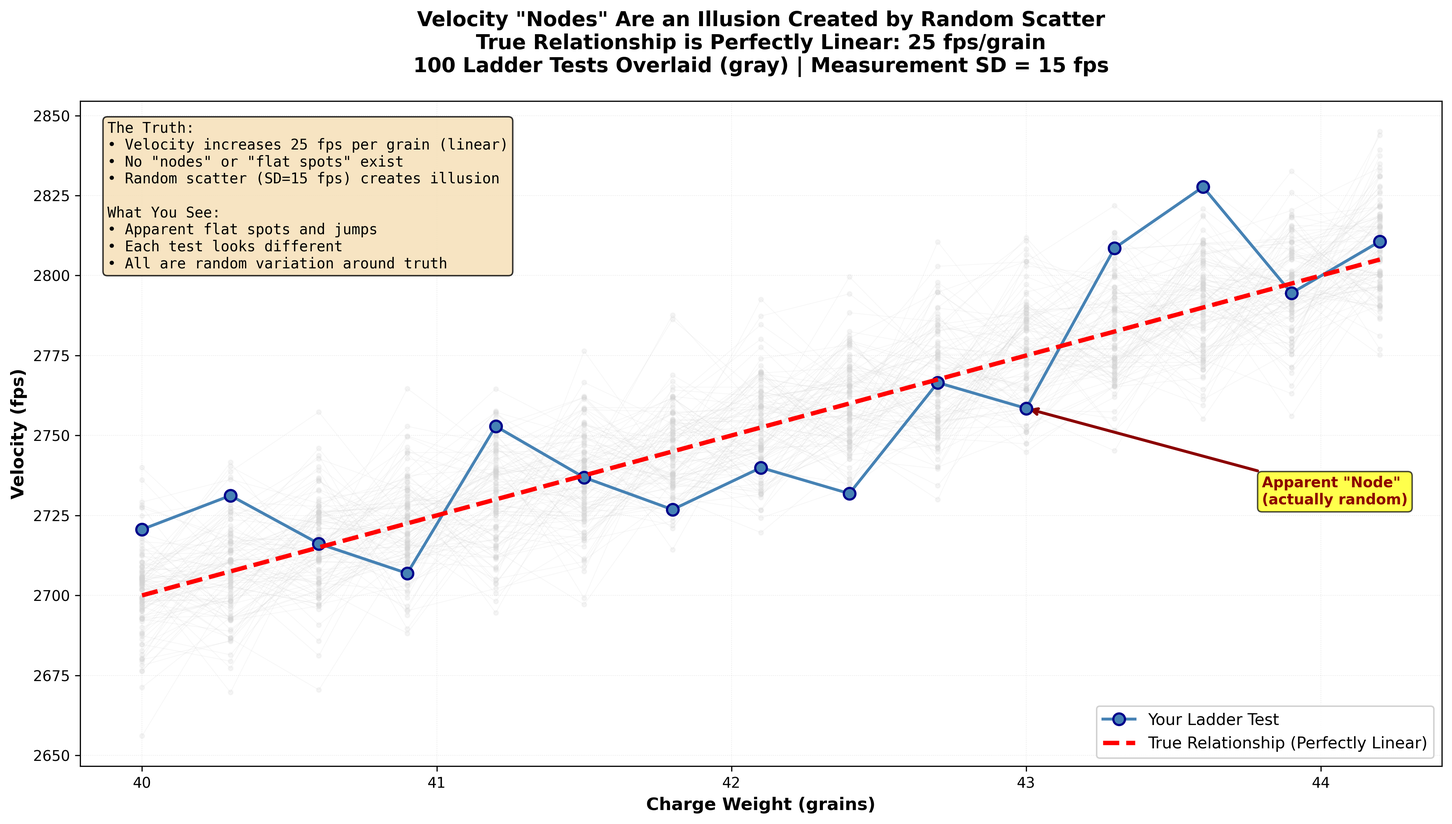
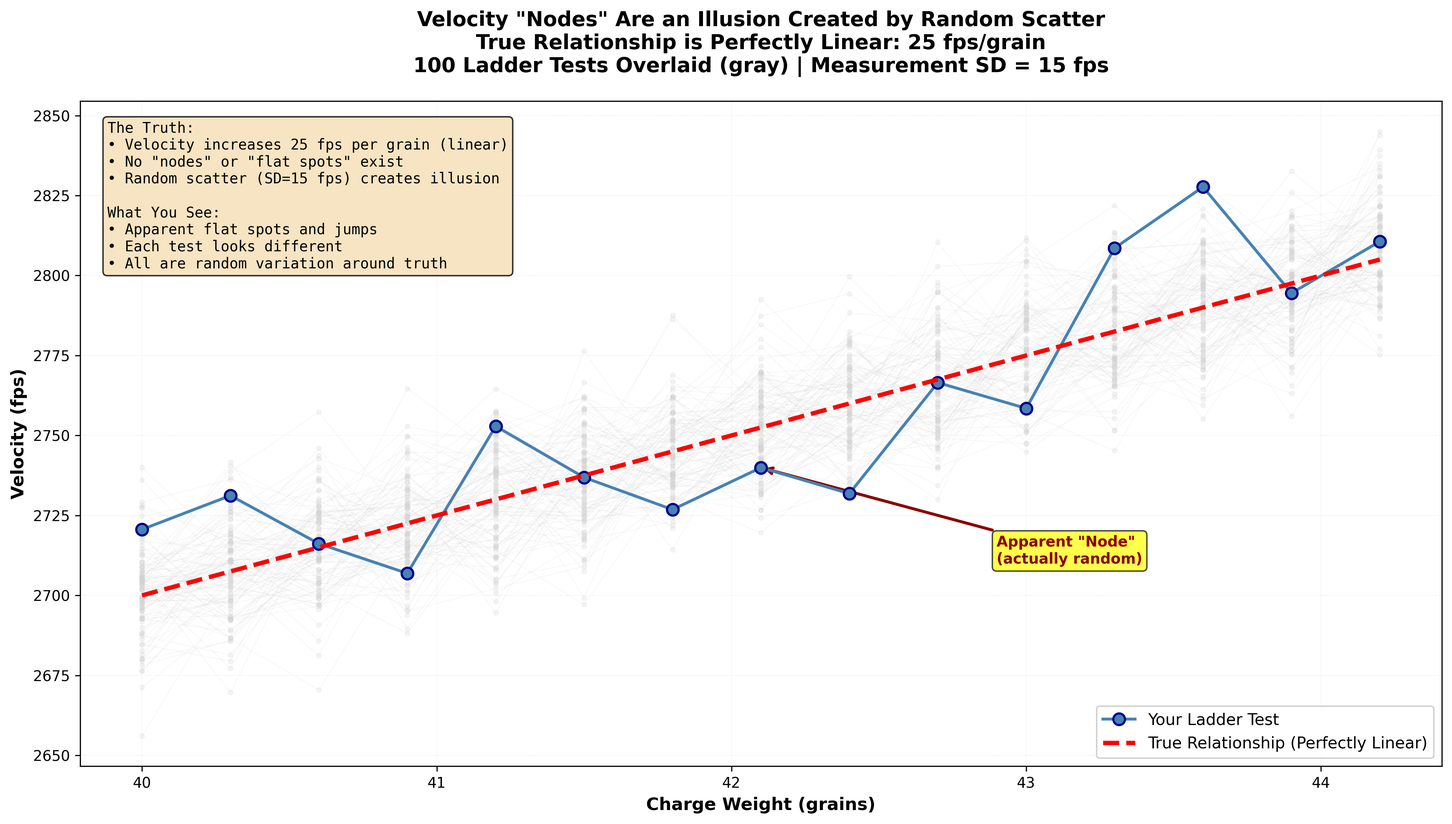
Curriculum modifications

diff --git a/scripts/plot_06_18_es_vs_mr_comparison.py b/scripts/plot_06_18_es_vs_mr_comparison.py
@@ -104,15 +104,15 @@ es_at_100 = es_values[-1]
 
 ax.annotate(f'ES at 5 shots:\n{es_at_5:.2f} MOA',
             xy=(5, es_at_5),
-            xytext=(15, es_at_5 - 0.3),
-            fontsize=9, color='darkred',
+            xytext=(15, es_at_5 + 0.4),
+            fontsize=8.5, color='darkred',
             bbox=dict(boxstyle='round', facecolor='mistyrose', alpha=0.8),
             arrowprops=dict(arrowstyle='->', color='darkred', linewidth=1.5))
 
 ax.annotate(f'ES at 100 shots:\n{es_at_100:.2f} MOA\n(still growing!)',
             xy=(100, es_at_100),
-            xytext=(75, es_at_100 + 0.5),
-            fontsize=9, color='darkred',
+            xytext=(70, es_at_100 + 0.3),
+            fontsize=8.5, color='darkred',
             bbox=dict(boxstyle='round', facecolor='mistyrose', alpha=0.8),
             arrowprops=dict(arrowstyle='->', color='darkred', linewidth=1.5))
 
@@ -122,8 +122,8 @@ mr_at_100 = mr_values[-1]
 
 ax.annotate(f'MR stabilizes\n{mr_at_100:.2f} MOA',
             xy=(50, mr_at_100),
-            xytext=(30, mr_at_100 - 0.6),
-            fontsize=9, color='darkblue',
+            xytext=(50, mr_at_100 - 0.5),
+            fontsize=8.5, color='darkblue',
             bbox=dict(boxstyle='round', facecolor='lightblue', alpha=0.8),
             arrowprops=dict(arrowstyle='->', color='darkblue', linewidth=1.5))
 
@@ -139,8 +139,8 @@ explanation_text = (
     f'Use MR, not ES, for reliable precision measurement'
 )
 
-ax.text(0.02, 0.97, explanation_text, transform=ax.transAxes,
-        fontsize=10, verticalalignment='top', horizontalalignment='left',
+ax.text(0.02, 0.70, explanation_text, transform=ax.transAxes,
+        fontsize=9, verticalalignment='top', horizontalalignment='left',
         bbox=dict(boxstyle='round', facecolor='wheat', alpha=0.8),
         family='monospace')
 

diff --git a/scripts/plot_05_16_velocity_node_illusion.py b/scripts/plot_05_16_velocity_node_illusion.py
@@ -69,16 +69,15 @@ ax.set_title('Velocity "Nodes" Are an Illusion Created by Random Scatter\n'
              f'100 Ladder Tests Overlaid (gray) | Measurement SD = {VELOCITY_SD} fps',
              fontsize=14, fontweight='bold', pad=20)
 
-# Add annotation pointing to apparent "flat spot" in your ladder test
-# Find a spot where consecutive velocities are similar (looks like a node)
-velocity_changes = np.diff(your_velocities)
-# Find smallest change (apparent flat spot)
-min_change_idx = np.argmin(np.abs(velocity_changes))
+# Add annotation pointing to the 42.0gr region (commonly identified as a "node")
+# Find the index for 42.0gr charge weight
+target_charge = 42.0
+target_idx = np.argmin(np.abs(charge_weights - target_charge))
 
-# Annotate apparent node
+# Annotate apparent node at 42.0gr
 ax.annotate('Apparent "Node"\n(actually random)',
-            xy=(charge_weights[min_change_idx + 1], your_velocities[min_change_idx + 1]),
-            xytext=(charge_weights[min_change_idx + 1] + 0.8, your_velocities[min_change_idx + 1] - 30),
+            xy=(charge_weights[target_idx], your_velocities[target_idx]),
+            xytext=(charge_weights[target_idx] + 0.8, your_velocities[target_idx] - 30),
             fontsize=10, fontweight='bold', color='darkred',
             bbox=dict(boxstyle='round', facecolor='yellow', alpha=0.7),
             arrowprops=dict(arrowstyle='->', color='darkred', linewidth=2))

diff --git a/scripts/plot_01_02_mean_radius_vs_extreme_spread.py b/scripts/plot_01_02_mean_radius_vs_extreme_spread.py
@@ -115,14 +115,14 @@ ax.legend(loc='upper left', fontsize=9, framealpha=0.9)
 
 # Add annotations
 ax.annotate('ES keeps growing\nwith more shots',
-           xy=(40, mean_es[39]), xytext=(30, mean_es[39] + 1.5),
-           fontsize=10, ha='center',
+           xy=(40, mean_es[39]), xytext=(25, mean_es[39] + 0.8),
+           fontsize=9, ha='center',
            arrowprops=dict(arrowstyle='->', color='coral', lw=2),
            bbox=dict(boxstyle='round', facecolor='wheat', alpha=0.5))
 
 ax.annotate('MR converges to\ntrue capability',
-           xy=(40, mean_mr[39]), xytext=(30, mean_mr[39] - 0.8),
-           fontsize=10, ha='center',
+           xy=(40, mean_mr[39]), xytext=(25, mean_mr[39] - 0.5),
+           fontsize=9, ha='center',
            arrowprops=dict(arrowstyle='->', color='steelblue', lw=2),
            bbox=dict(boxstyle='round', facecolor='wheat', alpha=0.5))
 
@@ -146,8 +146,8 @@ stats_text = (
     f'comparing loads or rifles.'
 )
 
-ax.text(0.98, 0.55, stats_text, transform=ax.transAxes,
-        fontsize=9, verticalalignment='top', horizontalalignment='right',
+ax.text(0.98, 0.35, stats_text, transform=ax.transAxes,
+        fontsize=8.5, verticalalignment='top', horizontalalignment='right',
         bbox=dict(boxstyle='round', facecolor='wheat', alpha=0.5))
 
 # Add note at bottom

diff --git a/notebooks/md/02_What_We_Actually_Mean_by_Consistency.md b/notebooks/md/02_What_We_Actually_Mean_by_Consistency.md
@@ -228,26 +228,25 @@ The projectile itself is the biggest driver of consistency. A bullet that's:
 
 ### 2. Powder Metering (~30% of variation)
 
-Consistent powder charges matter, but not as much as people think. The difference between 42.0 grains and 42.1 grains is usually smaller than bullet-to-bullet variation.  If you have very tight velocity spread needs, you will be able to calculate charge weight variation on velocity by the end of this course.
+Consistent powder charges matter, but not as much as people think. Within normal operating pressures, charge weight variation has VERY LITTLE effect on precision for a given propellant.  However, there is a direct relationship to charge weight and velocity.  The difference between 42.0 grains and 42.1 grains is often smaller than bullet-to-bullet variation.  If you have very tight velocity spread needs, you will be able to calculate charge weight variation effect on velocity by the end of this course.
 
-**Why:** Small variations in powder charge do create velocity variation, but a roperly chosen powders is remarkably forgiving. 
+**Why:** Small variations in powder charge do create velocity variation, but other metrics have a more profound effect on group size.
 
-**What this means for you:** A good powder measure or scale that's consistent to ±0.1 grain is plenty. Trickling every charge to the exact kernel is usually overkill unless you're shooting extreme long range. This statement will ruffle some feathers:  Your charge weight variation isn't effecting your group size nearly as much as you may think.
+**What this means for you:** A good powder measure or scale that's consistent to ±0.1 grain is plenty for most purposes. Trickling every charge to the exact kernel is usually overkill unless you're shooting long range.  If you need this level of velocity consistency, then improving velocity spread will improve your velocity SD.
 
 ### 3. Brass Quality and Prep (~20% of variation)
 
 Using the same brand and lot of brass matters. Weight sorting, volume measuring, and neck turning matter **much less** than people claim, especially with premium brass.  This is NOT advice to mix lots, brands, or use brass of otherwise unknown origin.  The lipstick on a pig analogy very much applies to "fixing" poor quality brass.
 
-**Why:** Modern premium brass (Alpha, Lapua) is already remarkably consistent. Weight variations come mostly from differences in case head thickness, which doesn't affect internal volume much.
+**Why:** Modern premium brass (Alpha, Lapua, possibly others) is already remarkably consistent. Weight variations come mostly from differences in case head thickness, which doesn't affect internal volume much.
 
-**What this means for you:** Buy good brass, use the same lot, and don't obsess over sorting it. The time spent weight-sorting would be better spent practicing shooting fundamentals.  If you want to sort brass, measure water volume to a statistically significant degree.  
+**What this means for you:** Buy good brass, use the same lot, and don't obsess over sorting it. The time spent weight-sorting would be better spent practicing shooting fundamentals.  If you want to sort brass, measure fired water volume to a statistically significant degree.  
 
 ### 4. Primers (~10% of variation)
 
 Primer choice matters, but primer-to-primer variation within the same lot is minimal with quality products. The internet is full of claims about switching primers and seeing dramatic SD drops. Most of those are small sample artifacts (remember the cup and the ocean?).
 
-**Why:** Primers do affect velocity (different brisance, different energy), but modern primers are remarkably consistent within a lot.
-    NOTE: This is not to imply some primers may produce a different velocity mean due to brisance.
+**Why:** Primers do affect velocity (different brisance, different energy), but modern primers are remarkably consistent within a lot.  I do not say this to imply primers are directly interchangeable.  Different "strength" of primers or brisance can and do cause average velocity changes.  If your system (rifle, ammo, shooter) is capable, you'll learn how to properly test the differences between primers later.
 
 **What this means for you:** Find a primer that works in your rifle and stick with it. Don't chase "better" primers based on someone's 10-shot test.
 
@@ -281,15 +280,15 @@ Primer choice matters, but primer-to-primer variation within the same lot is min
 Based on this hierarchy, here's the smart approach:
 
 **High-Priority (Do This):**
-- Buy quality bullets from reputable manufacturers
+- Buy quality bullets from manufacturer's with a reputation of consistent quality 
 - Use a consistent powder measuring method (±0.1 grain)
 - Buy premium brass and use same lot
-- Stick with proven primers
+- Stick with proven primers until you properly test alternatives
 
 **Low-Priority (Don't Obsess):**
-- Weight-sorting brass - If you are concerned, sort by internal volume.
-- Measuring case neck thickness - Good to know for other reasons, but not for our current purposes.
-- Turning case necks (unless obvious issues)
+- Weight-sorting brass - If you are concerned, sort by internal volume
+- Measuring case neck thickness - Good to know for other reasons, but not for our current purposes
+- Turning case necks (unless there are obvious issues or addressing a specific problem)
 - Primer pocket uniforming - Sometimes "uniforming" does more harm than good.  Start with brass suitable for your needs.
 - Trickling to exact kernel count - If you "need" this step, you'll know by the time we are finished.
 

diff --git a/notebooks/md/05_Velocity_Data_-_What_to_Measure_and_How_to_Think_About_It.md b/notebooks/md/05_Velocity_Data_-_What_to_Measure_and_How_to_Think_About_It.md
@@ -51,7 +51,7 @@ Your bullet's velocity determines:
 3. **Time of flight**: How long it's in the air (and accumulating errors)
 4. **Energy on target**: For hunters, this affects terminal performance
 
-If you're shooting at 600 yards, a 50 fps difference in velocity creates about 6 inches of vertical difference. That's significant. So knowing your true average velocity actually matters.
+If you're shooting at 600 yards, a 50 fps difference in velocity creates about 6 inches of vertical difference. That's significant. So knowing your true average velocity actually matters.  *Trajectory examples are arbitary but relevant examples.  Use a quality external ballistics calculator to check your ammunition.
 
 ### The Good News: 10-15 Shots Is Usually Enough
 
@@ -135,7 +135,7 @@ The first string is more consistent. The second varies more shot-to-shot.
 
 ### The Perverse Nature of Standard Deviation (Bramwell's Warning)
 
-Ballistician Denton Bramwell wrote about the "perverse nature of standard deviation" in small samples. Here's what he meant:
+Physicist and statistician Denton Bramwell wrote about the "perverse nature of standard deviation" in small samples. Here's what he meant:
 
 **SD calculated from small samples is biased low.** It systematically underestimates the true population SD.
 
@@ -292,20 +292,22 @@ Researchers who tested this properly:
 
 Here's something that actually DOES create velocity variation: temperature.
 
-Powder burn rate changes with temperature. Some powders are more sensitive than others.
+Powder burn rate changes with temperature. Some powders and component combinations are more sensitive than others.  I would caution readers to take marketing claims of temperature insensitivity with a grain of salt.  If you want to know for sure, properly test this interaction.
 
 **Typical temperature sensitivity:**
-- Temp-stable powders (H4350, Varget, etc.): ~0.5 fps per degree F
-- Standard powders: ~1.5 to 2.0 fps per degree F
-- Temp-sensitive powders: ~3+ fps per degree F
+- Temp-stable combinations: ~0.5 fps per degree F
+- Less-stable combinations: ~1.5 to 3.0+ fps per degree F
+
 
 **Practical impact:**
 
 You develop a load on a 70°F day: Average velocity 2,850 fps
 
-Same load on a 40°F winter hunt: Could be 2,820 fps (30 fps slower with sensitive powder)
+Same load on a 28°F winter hunt: Could be 2,810 fps (40 fps slower)
 
 Same load on a 95°F summer day: Could be 2,900 fps (50 fps faster)
+
+I would also caution you to test at least 3 different temperatures with a wide spread and not assume temperature and velocity has a constant relationship (linear).
 
 **That's WAY more velocity variation than "nodes" supposedly control.**
 
@@ -327,9 +329,9 @@ Yet very few reloaders test temperature sensitivity. They chase 0.1-grain charge
 
 **For temperature testing:**
 
-1. Test your chosen load at different temperatures (cold winter day, hot summer day)
+1. Test your chosen load at different temperatures (cold winter day, mild spring day, hot summer day)
 2. See how much velocity shifts
-3. If it matters for your application, consider temp-stable powder
+3. If it matters for your application, there are tools available to correct for environmental changes in your firing solution
 
 This approach uses the same number of components as a ladder test but gives you actually useful information.
 
@@ -383,9 +385,9 @@ Target sizes vary from 8 inches to 20 inches.
 
 **Scenario 3: ELR (extreme long range) at 1,500+ yards**
 
-Tiny targets at massive distances.
+Targets at massive distances.
 
-15 fps SD at 1,500 yards creates 20+ inches of vertical uncertainty.
+15 fps SD at 1,500 yards creates 20+ inches of vertical uncertainty.  SD and accuracy of the firing solution are primary drivers of hit percentage.
 
 **Does SD matter?** Absolutely. Every fps of SD reduction helps. This is where single-digit SD actually matters.
 
@@ -393,7 +395,7 @@ Tiny targets at massive distances.
 
 Velocity SD creates minimal vertical at these distances. Precision is limited by other factors (bullet quality, rifle mechanics, wind).
 
-**Does SD matter?** Not really. These guys chase low SD anyway, but it's not the limiting factor for group size.
+**Does SD matter?** Not really. The reality is, it takes a massive relative velocity shift to create an impact equal to average dispersion.
 
 ### The Honest Assessment
 
@@ -402,14 +404,14 @@ Velocity SD creates minimal vertical at these distances. Precision is limited by
 Going from 15 fps SD to 8 fps SD:
 - Sounds impressive
 - Feels like an accomplishment
-- Makes almost zero practical difference if you're not shooting ELR
+- Makes almost zero practical difference if you're not shooting at targets sufficiently small at sufficiently long distances.
 
 **Where your effort should go:**
 
 1. **Bullet quality**: Bigger impact on precision than SD
-2. **Rifle accuracy**: Most factory rifles can't shoot well enough for SD to matter
+2. **Rifle accuracy**: Most low tier factory rifles don't shoot well enough for SD to matter
 3. **Fundamentals**: Shooter error dwarfs velocity variation effects
-4. **Wind reading**: Misreading wind by 2 mph matters more than 10 fps SD
+4. **Wind reading**: Misreading wind by 2 mph matters more than 10 fps SD at extended distances
 
 Once you've optimized those, THEN chase lower SD if you're shooting far enough for it to matter.
 

diff --git a/notebooks/md/07_Real_Examples_-_Dissecting_Common_Myths.md b/notebooks/md/07_Real_Examples_-_Dissecting_Common_Myths.md
@@ -95,6 +95,8 @@ OCW is appealing because:
 4. Confirmation bias: When it "works," people remember; when it doesn't, they think they executed it wrong
 5. Small sample sizes mean you never test the result properly to discover it doesn't repeat
 
+**The recoil connection:** The "convergence" patterns people see in OCW tests are primarily driven by **recoil management inconsistency**, not charge weight harmonics. As you'll learn in Notebook 09, recoil-induced dispersion typically contributes 0.3 to 0.8+ MOA to your total system precision—far more than the tiny charge weight differences (0.3 grains) being tested. When you see charges "converging" on target, you're mostly seeing which shots happened to have similar recoil characteristics, not which charges have optimal barrel harmonics. This is the same fundamental problem that plagues ladder tests at distance: **you're measuring your recoil management, not your load quality.**
+
 ### What to Do Instead
 
 **Better approach:**
@@ -257,16 +259,23 @@ Seating depth testing persists because:
 
 **Better approach:**
 
+**Understanding seating depth physics:** While seating depth does affect chamber pressure (longer seating = less case volume = higher pressure), it takes a relatively large change to produce noticeable effects. Small adjustments like 0.005" are often undetectable until sample sizes are larger than commonly tested (30+ shots minimum). The pressure effect is predictable and measurable; the claimed "sweet spot" accuracy improvements are not.
+
+**The bullet ogive factor (Bryan Litz research):** Seating depth sensitivity depends heavily on bullet design. **Secant ogive bullets** (common in VLDs) can be more sensitive to seating depth because the ogive-to-leade (throat) transition is abrupt. **Tangent ogive bullets** (traditional hunting designs) are generally more forgiving because they have a gradual transition. **Hybrid ogive bullets** (Bryan Litz's design combining both profiles) retain the ballistic coefficient benefits of secant designs while reducing seating depth sensitivity—this is the problem they were specifically designed to solve. If you're chasing tiny seating depth windows, consider whether switching to hybrid bullets would be more effective than endless testing.
+
 **If you have reason to suspect seating depth matters for your bullet/rifle combo:**
-1. Test 3-4 depths spanning a reasonable range (e.g., 0.010" to 0.040" off)
-2. Shoot 20-30 rounds at EACH depth
-3. Calculate mean radius for each
-4. Use statistical comparison to see if differences are real
-5. Only if one depth is clearly and consistently better (across multiple sessions), commit to it
+1. Test 3-4 depths spanning a **large range** (e.g., 0.020" to 0.080" off, in 0.020"-0.040" increments)
+2. Don't waste time on tiny 0.005" adjustments—if the effect is real, it should be visible with larger jumps
+3. Shoot 20-30 rounds at EACH depth
+4. Calculate mean radius for each
+5. Use statistical comparison to see if differences are real
+6. Only if one depth is clearly and consistently better (across multiple sessions), commit to it
 
-**If you're shooting VLD or hybrid bullets at long range:** Seating depth might matter. Test properly.
+**If you're shooting VLD or secant ogive bullets at long range:** Seating depth might matter. Test properly with large increments (0.020"-0.040" steps).
 
-**If you're shooting standard bullets for hunting inside 400 yards:** Seating depth probably matters very little. Pick a depth that feeds reliably and fits your magazine, test it once with 30+ shots, and move on.
+**If you're shooting hybrid or tangent ogive bullets:** Seating depth likely has minimal effect. Pick a depth that feeds reliably and fits your magazine, test it once with 30+ shots, and move on.
+
+**If you're shooting standard hunting bullets inside 400 yards:** Seating depth almost certainly doesn't matter enough to test. Focus on components that actually drive precision (bullet quality, powder consistency, rifle bedding).
 
 ---
 

diff --git a/docs/Content_Ideas.md b/docs/Content_Ideas.md
@@ -1,5 +1,18 @@
-Add link for Preston Moore's precision testing, 3 x 10 shot groups with chronograph results is a very good method illustrating a valid statistically valid test.  Link to Preston Moore's YouTube videos: https://www.youtube.com/@PrestonJMoore/videos
+In Notebook 3, for Exception 4, add the explanation that the wonderful thing what statistics show, is that with a 15 rounds test, the result is biased towards being better than it actually is.  If the result is terrible for your standards, you know it is more likely than not going to work.
 
-To further clarify Type I and Type II errors, add the humorous meme in notebooks/static/TypeI_II_Error_meme.jpg after plot with caption - The most conscise way to remember Type I and Type II errors.
+Add in the course - something to the effect of:  By now your eyebrows should raise concerning factory claims of sub MOA guarantees with no qualifier.  Statistically, just shoot until you get a 3-5 shot group that's sub MOA.  That practice has created an unrealistic expectation.
+
+In nb05_plot16_velocity_node_illusion.png, the yellow apparent "node" box should point at 42.0gr.  that specific generation incorrectly picked the region that is commonly referred to as a node.
+
+
+nb01_plot02_mean_radius_vs_extreme_spread.png the information boxes are overlapping, making them difficult to read.
+nb06_plot18_es_vs_mr_comparison.png same problem
+other plots in notebooks exhibit this problem (information boxes obscuring graphs or boxes overlapping)
+
+Note for entire project, I added this verbiage in once place.  There is an option for Aggregate approach, called "Composite groups" where multiple smaller sample groups are converged so that the aiming point is in the exact same place.  This allows easier data collection for large sample precision testing (holes are more clearly defined).  There is software available to simplify this metric, such as OnTarget TDS.  research before Provide a link in references.  best practice is to intentionally dial an offset so the aimpoint remains throughtout the shooting session.  Reference Preston Moore's testing strategy as a practical example.
+
+For Notebook 07 in the OCW method, add the evidence people think they are seeing is related to the primary driver of precision (recoil) discussed in a later lesson.  this is the same problem that exists with ladder tests at a distance.
+
+Notebook 07, Seating depth, add that while seating depth does effect pressure, it takes a relatively large change (0.005" is often unnoticable until sample sizes are larger than commonly tested).  Research bryan litz's discussion on hybrid/tangent vs secant projectiles.  There can be mechanical interactions between the leade and the ogive of the bullet, addressed by his invention of the hybrid bullet (retains features of both types for combined benefit)  already implicitly stated, but if testing seating depth - test realtively large jumps of at least 0.020"-0.040"
 
 

diff --git a/notebooks/md/06_Group_Size_and_Accuracy_-_Beyond_the_Best_Group.md b/notebooks/md/06_Group_Size_and_Accuracy_-_Beyond_the_Best_Group.md
@@ -445,6 +445,24 @@ Based on everything we've learned, here's the correct process:
 - Requires large target
 - Can't easily compare to traditional group size claims (but that's actually good—stops the comparison trap)
 
+**Practical Variant: Composite Groups**
+
+A smart variation of the aggregate approach is called **"composite groups"** - shooting multiple smaller groups with deliberate aim point offsets, then combining them for analysis with all shots referenced to the same point of aim. This gives you the statistical benefits of large sample aggregation while making data collection easier.
+
+**How it works:**
+1. Shoot multiple groups (e.g., three 10-shot groups) on the same target
+2. Intentionally dial a known offset for each group (e.g., 2 MOA up, 2 MOA right, 2 MOA down) so bullet holes don't overlap
+3. Use software to digitally converge all groups back to the same aiming point
+4. Calculate aggregate statistics (mean radius, etc.) from the combined 30+ shots
+
+**Benefits:**
+- Bullet holes remain clearly defined (easier to measure accurately)
+- Collects large sample data in one range session
+- Barrel has time to cool between groups if needed
+- Software like **OnTarget TDS** ([OnTarget Precision Calculator](https://ontargetshooting.com/)) automates the convergence and statistical analysis
+
+**Best practice:** See **Preston Moore's testing strategy** ([Preston Moore YouTube](https://www.youtube.com/@PrestonJMoore/videos)) as a practical example - he commonly tests with 3 × 10-shot groups with chronograph data, combining them for statistically valid precision measurement. This approach balances practical data collection with statistical rigor.
+
 ### Option B: Multiple Groups, Honestly Averaged (Second Best)
 
 1. **Set up:** Multiple targets or marked aim points

diff --git a/notebooks/md/03_How_Many_Shots_Do_You_Really_Need.md b/notebooks/md/03_How_Many_Shots_Do_You_Really_Need.md
@@ -382,7 +382,7 @@ The hidden costs of inadequate sample sizes:
 **Recommendation:**
 - 20-30 shots to verify load is safe and adequate
 - Focus on accuracy at your maximum hunting distance
-- Don't obsess over single-digit SD (it doesn't matter at 300 yards in this application)
+- Don't obsess over single-digit SD (it doesn't matter at 300 yards for this application)
 
 ### Exception 2: You're Using Factory Ammo
 
@@ -413,11 +413,18 @@ The hidden costs of inadequate sample sizes:
 
 **Reality:** 15 shots is better than nothing, but don't over-interpret results.
 
+**The wonderful thing statistics reveal:** With a 15-shot test, the result is **biased toward appearing better than it actually is.** Small samples systematically underestimate SD and show tighter groups than the true capability. This creates a useful asymmetry:
+
+- **If your 15-shot result looks amazing:** Don't trust it yet. It's probably optimistic. You need more shots to verify.
+- **If your 15-shot result looks terrible for your standards:** It's more likely than not to actually be that bad (or worse). You can confidently stop wasting components on that option.
+
+This bias means small samples are better at ruling things OUT than ruling them IN. A bad result from limited testing is trustworthy; a good result is not.
+
 **Recommendation:**
 - Test with what you have
 - Note in your records: "Based on 15 shots - needs validation"
-- If it looks promising, get more and test properly
-- If it looks terrible, you saved yourself buying more
+- If it looks promising, get more and test properly (the result is likely optimistic)
+- If it looks terrible, you saved yourself buying more (the result is likely accurate or pessimistic)
 
 ---
 

diff --git a/notebooks/md/09_Reasonable_Expectations_-_What_Real_Precision_Looks_Like.md b/notebooks/md/09_Reasonable_Expectations_-_What_Real_Precision_Looks_Like.md
@@ -199,6 +199,8 @@ Let's get brutally honest about what different equipment levels can actually del
 
 At 100 yards, this is 1.5 to 2.0 inch groups (aggregated, not best-of-five).
 
+**A note on "Sub-MOA Guarantees":** By now, your eyebrows should raise concerning factory claims of sub-MOA guarantees with no qualifiers. Statistically, if you shoot enough 3-5 shot groups, you'll eventually get one that's sub-MOA—even from a rifle that averages 1.5-2.0 MOA. This practice has created unrealistic expectations across the industry. When manufacturers say "sub-MOA guarantee," they typically mean "we'll shoot groups until we get one sub-MOA" or "3-shot groups with match ammo under ideal conditions." This isn't dishonest per se, but it's not the same as "this rifle averages sub-MOA with 30+ shot aggregates using hunting ammunition." Understanding sample size bias makes you immune to this marketing strategy.
+
 **What limits you:**
 - Factory barrel quality (button rifled, standard chamber)
 - Mixed ammunition lots

diff --git a/notebooks/md/04_Testing_One_Thing_at_a_Time.md b/notebooks/md/04_Testing_One_Thing_at_a_Time.md
@@ -126,7 +126,7 @@ Now, remember from Notebook 03: you need at least 30 shots per load to measure a
 **At 100 rounds per hour of shooting:** 21.6 hours of range time
 **Barrel life consumed:** 2,160 rounds (potentially 20%+ of a barrel's accurate life)
 
-**Reality check:** Nobody is doing this. And if you try, you'll spend so long testing that your barrel will have changed, your primers will be from different lots, and your powder moisture content will have changed or maybe even aged.
+**Reality check:** Nobody is doing this (in the hobby sector). And if you try, you'll spend so long testing that your barrel will have changed, your primers will be from different lots, and your powder moisture content will have changed depending on how it's stored.
 
 ### The Smart Alternative: Sequential Testing
 

diff --git a/notebooks/md/01_The_Biggest_Lie_in_Reloading_Testing.md b/notebooks/md/01_The_Biggest_Lie_in_Reloading_Testing.md
@@ -22,7 +22,7 @@ And once you see it, and I mean REALLY see it through simulation, you'll never l
 
 ## The Setup: A Perfect Rifle
 
-Let's create a perfect rifle in a computer. Not a real rifle, but a simulated one where we control everything and know the exact truth.  If you are already skeptacle, bare with me.
+Let's create a perfect rifle in a computer. Not a real rifle, but a simulated one where we control everything and know the exact truth.  If you are already sceptical, bare with me.
 
 **Our test rifle:**
 - True precision: **1.5 MOA** (This is fixed, it never changes)
